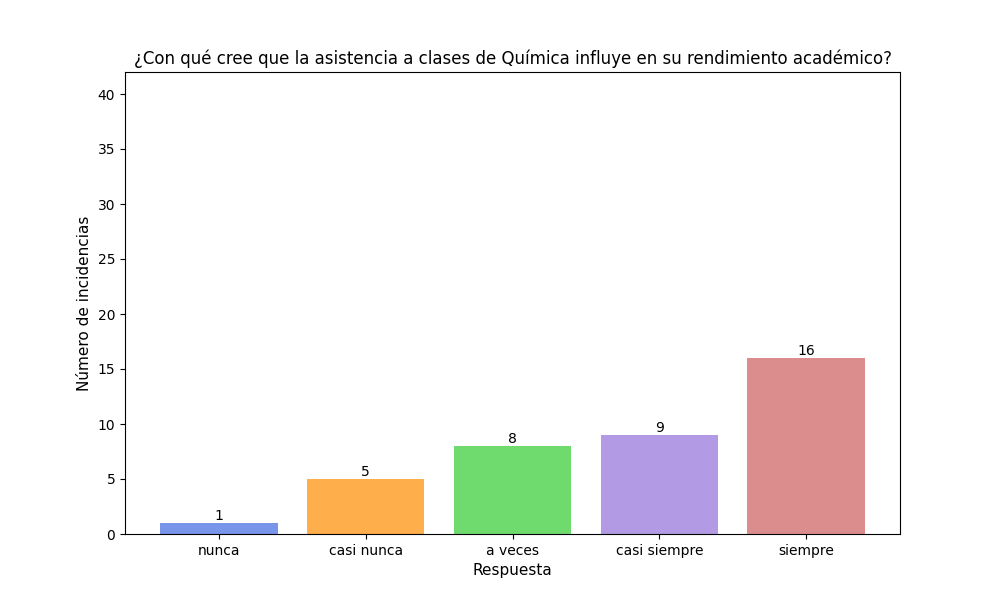
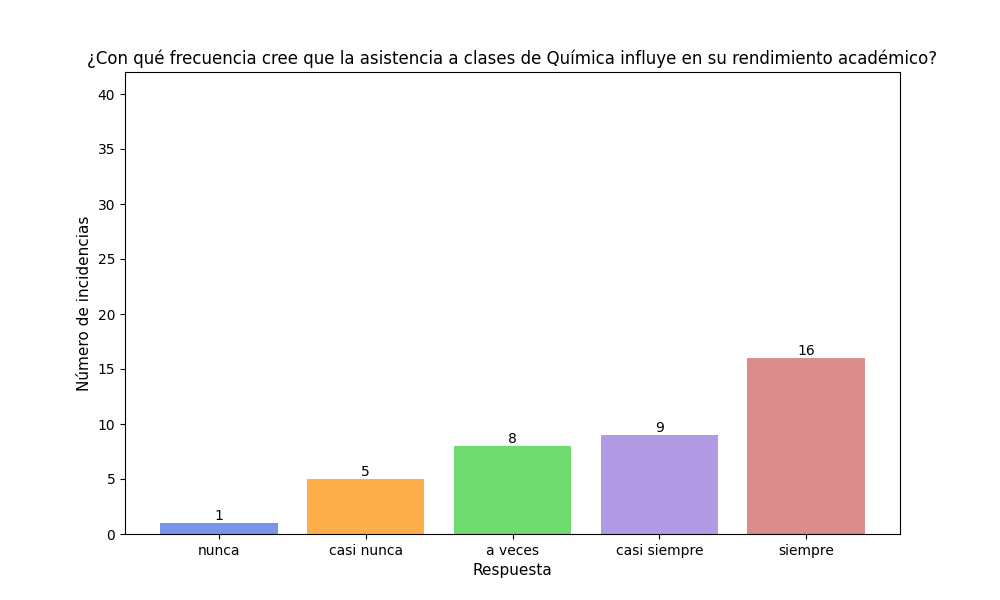
FIX: histogramas pregunta 5, 6 y 18 correctos; errores de conteo y arreglo de titulo de pregunta

Changed region(s): [[0.093, 0.09, 0.93, 0.12]]

diff --git a/scripts/exploration.py b/scripts/exploration.py
@@ -33,7 +33,7 @@ def explorationNombreColumnas(csv_file):
 
     print("Nombres de las columnas:")
     for idx, nombre in enumerate(nombres_columnas):
-        print(f"•{idx}: {nombre}")
+        print(f"•{idx+1}: {nombre}")
 
     # * Prueba de acceso de nombre_columnas por medio de indices
     #print(nombres_columnas[3])
@@ -49,8 +49,8 @@ def explorationNombreColumnas(csv_file):
 def main():
     CSV_FILE = "../csv/EncuestaPreliminar.csv"
 
-    #explorationNombreColumnas(CSV_FILE)
-    explorationIncidenciasInteres(CSV_FILE)
+    explorationNombreColumnas(CSV_FILE)
+    #explorationIncidenciasInteres(CSV_FILE)
 
 
 if __name__ == "__main__":

diff --git a/scripts/plots.py b/scripts/plots.py
@@ -305,9 +305,9 @@ def main():
     df_normalizado = getDataFrameRespuestasCategoricasNormalizadas(df_csv)
 
     #getHistogramaDatosDemograficos(df_normalizado)
-    #getHistogramaDiagnosticoAprendizajeQuimica(df_normalizado)
+    getHistogramaDiagnosticoAprendizajeQuimica(df_normalizado)
     #getWordCloudOpinionesQuimica(df_normalizado)
-    getIncidenciasEncuestaPreliminar(df_normalizado) # * SI SIRVE EL NORMALIZADO
+    #getIncidenciasEncuestaPreliminar(df_normalizado) # * SI SIRVE EL NORMALIZADO
 
 if __name__ == "__main__":
     main()
